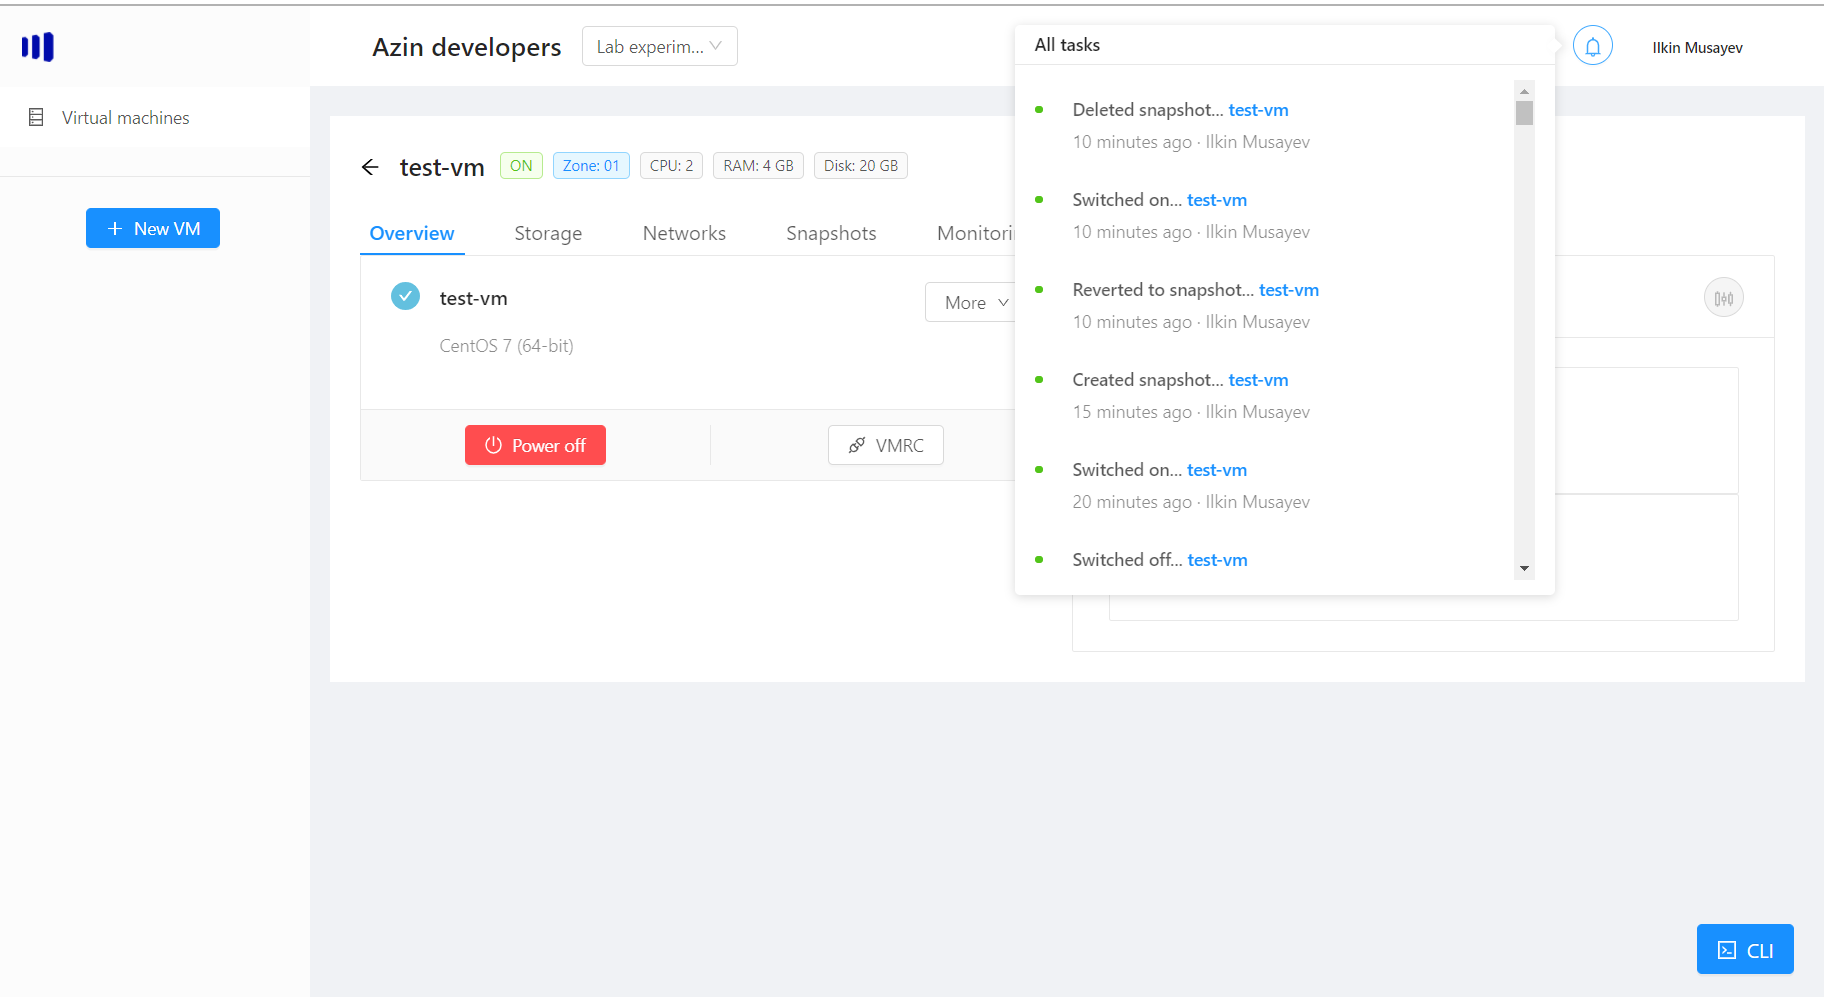
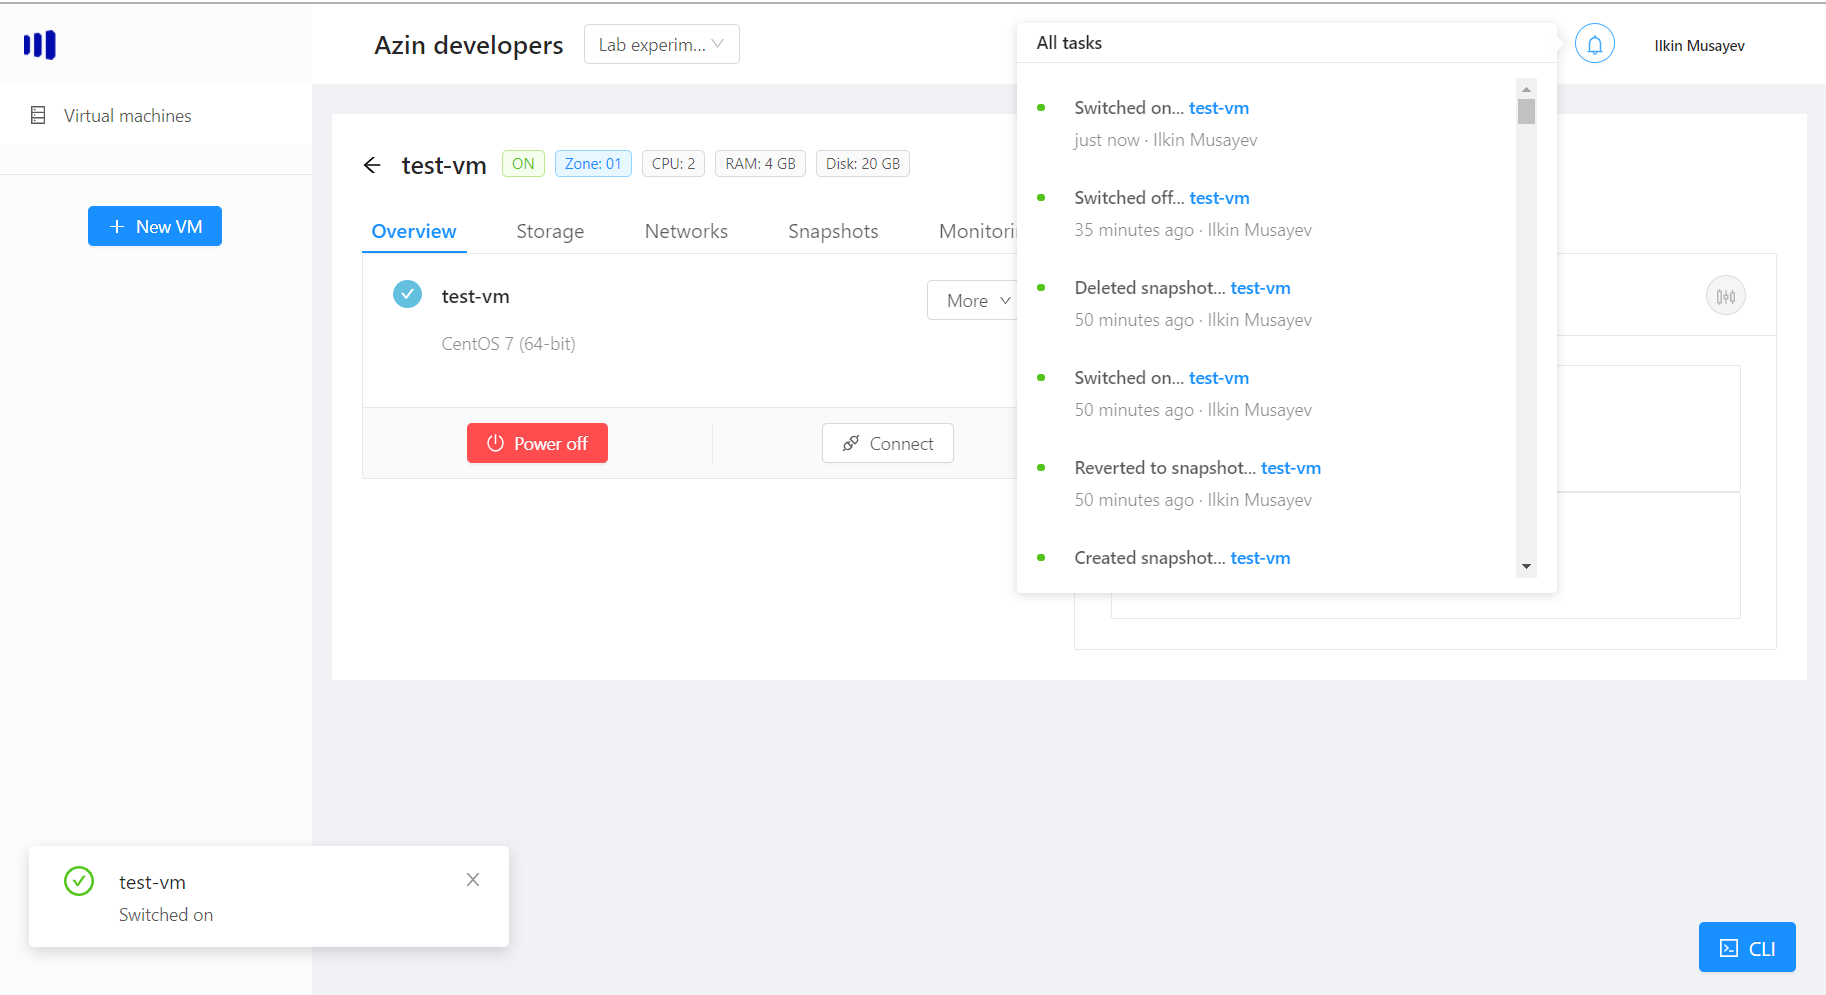
Rename stuff

diff --git a/docs/ui/console.md b/docs/ui/console.md
@@ -1,8 +1,8 @@
-# VMRC console
-When you need to connect to your vm using remote console, click on the "VMRC" button (the vm should be on):
-![VMRC](./images/vmrc/vmrc.png)
+# Remote console
+When you need to connect to your vm using remote console, click on the "Connect" button (the vm should be on):
+![Connect](./images/console/connect.png)
 The console will be opened in a new browser tab:
-![Console](./images/vmrc/console.png)
+![Console](./images/console/console.png)
 > Note: if you cannot connect to your vm, please restart it once.
 
 ## Commands
@@ -10,4 +10,4 @@ You can switch to a full screen mode, by clicking the full screen button.
 
 ### CTRL+ALT+DELETE
 Send the CTRL+ALT+DELETE command by clicking on top icon:
-![CTRL+ALT+DELETE](./images/vmrc/ctrl+alt+delete.png)
+![CTRL+ALT+DELETE](./images/console/ctrl+alt+delete.png)

diff --git a/docs/ui/power.md b/docs/ui/power.md
@@ -13,4 +13,4 @@ If you want to switch the vm off, choose the vm that is on and then click "Power
 If you want to power on the vm, choose the vm and then click "Power On":
 ![On](./images/power/on.png)
 
-> Note: when the vm is on, you can now connect to VMRC console.
+> Note: when the vm is on, you can now connect to remote console.
